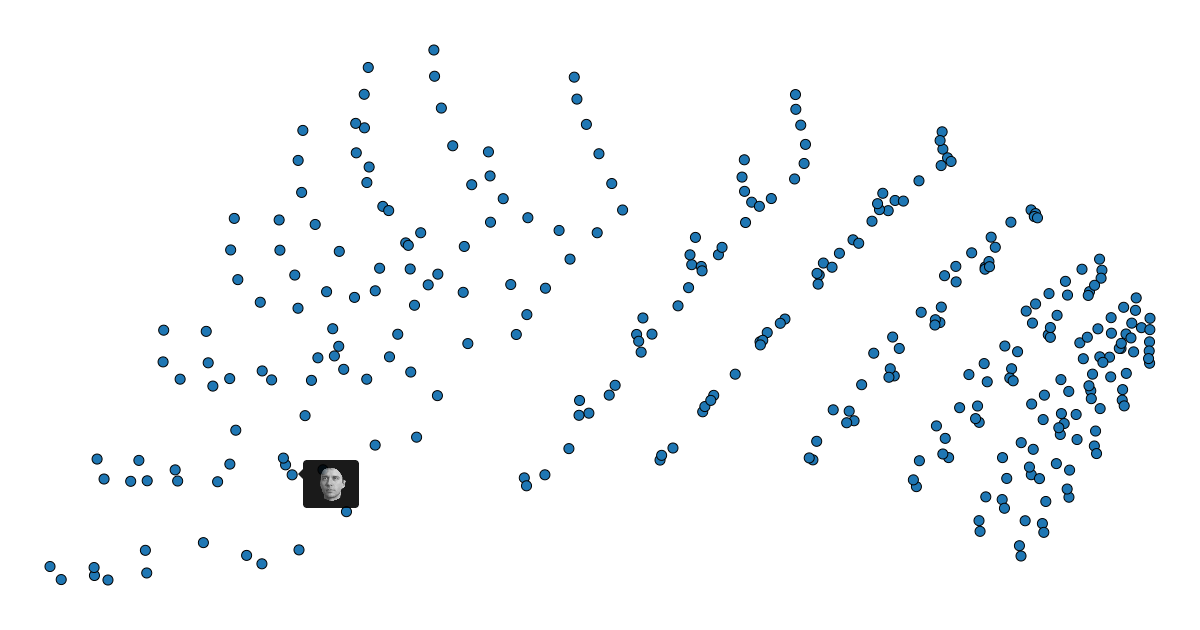
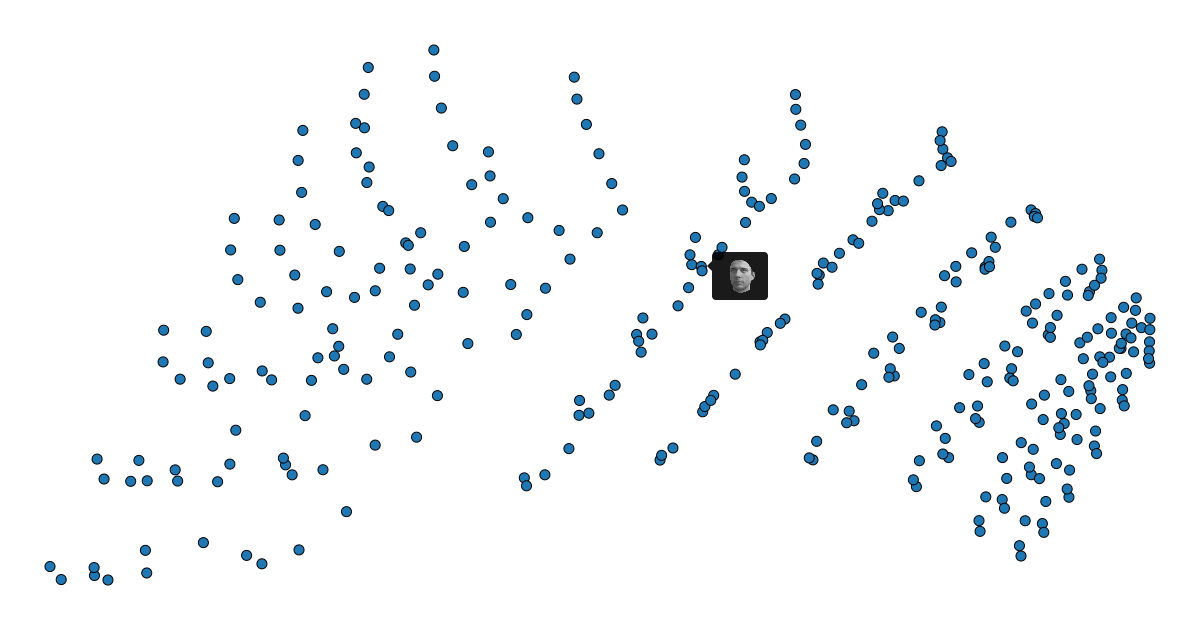
Small updates

Changed region(s): [[0.5858, 0.3921, 0.6475, 0.4825], [0.2467, 0.7238, 0.3083, 0.8143]]

diff --git a/resources/public/css/styles.css b/resources/public/css/styles.css
@@ -134,3 +134,40 @@ pre.hljs code {
     text-transform: uppercase;
     letter-spacing: 0.5px;
 }
+
+/* Modal backdrop blur effect */
+.modal-backdrop {
+    backdrop-filter: blur(8px);
+    -webkit-backdrop-filter: blur(8px);
+    transition: backdrop-filter 0.3s ease, opacity 0.15s linear;
+}
+
+.modal-backdrop.show {
+    backdrop-filter: blur(8px);
+    -webkit-backdrop-filter: blur(8px);
+}
+
+/* Modal fade transition enhancement */
+.modal.fade .modal-dialog {
+    transition: transform 0.3s ease-out, opacity 0.3s ease-out;
+    transform: translate(0, -50px) scale(0.95);
+}
+
+.modal.show .modal-dialog {
+    transform: translate(0, 0) scale(1);
+}
+
+/* Additional blur effect for content behind modal */
+body.modal-open {
+    overflow: hidden;
+}
+
+body.modal-open .page-container {
+    filter: blur(2px);
+    transition: filter 0.3s ease;
+}
+
+body:not(.modal-open) .page-container {
+    filter: blur(0px);
+    transition: filter 0.3s ease;
+}
